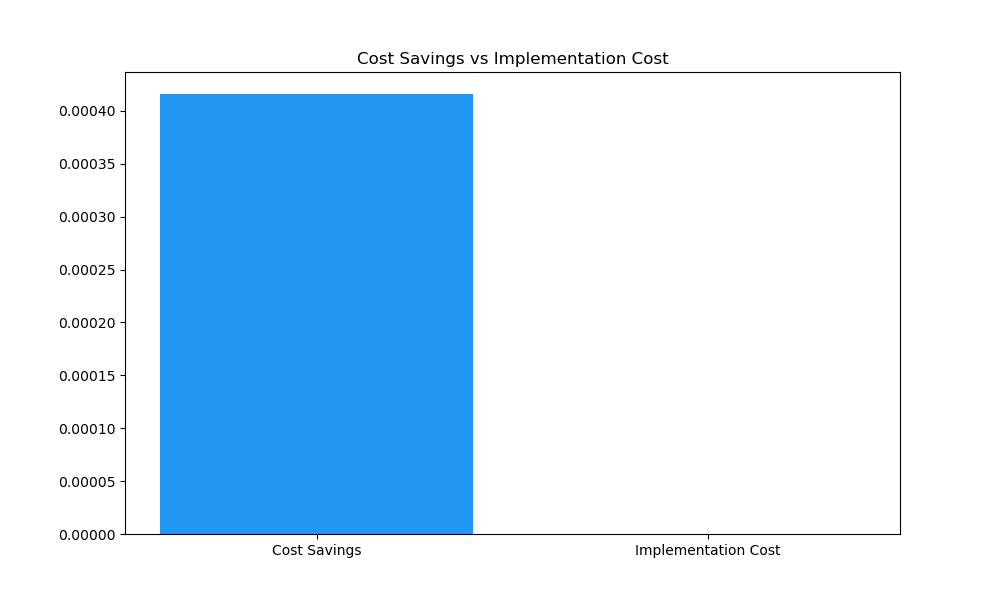
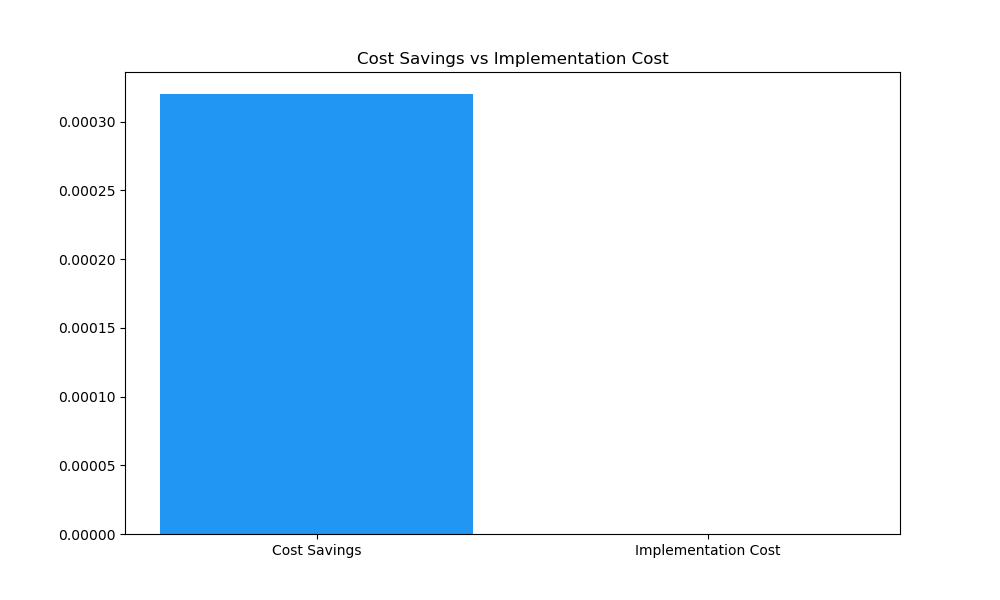
Commentaires

diff --git a/calculation.py b/calculation.py
@@ -12,14 +12,43 @@ from PyQt5 import QtSql
 
 
 def load_solutions(file_path='solutions.json'):
+    """
+
+
+    Parameters
+    ----------
+    file_path : str, optional
+        Chemin relatif du fichier contenant les solutions disponibles. The default is 'solutions.json'.
+
+    Returns
+    -------
+    solutions : list
+        Liste de dicos imbriqués (suivant la logique inscrite dans le fichier json) contenant les paramètres de chaque solutions.
+
+    """
     with open(file_path, 'r', encoding='utf-8') as file:
         solutions = json.load(file)
     return solutions
 
 
 def calculate_resources(input_data):
+    """
+    Calcule les ressources à disposition selon les données brutes fournies. Exple : on fourni le nombre de douches et on retourne la quantité dispo correspondante.
+
+    Parameters
+    ----------
+    input_data : dict
+        Données brutes d'entrée.
+
+    Returns
+    -------
+    dict
+        Données traitables. Exple : la quantité d'eau de douche dispo (plutôt que le nombre de douches qui ne sert 'à rien').
+
+    """
     roof_area, num_residents, daily_shower_usage, location, is_garden = input_data['roof_area'], input_data['num_residents'], input_data['daily_shower_usage'], input_data['location'], input_data['garden']
 
+    # Définition de la quantité de pluie en allant chercher dans la base de données
     query = QtSql.QSqlQuery()
     query.prepare("SELECT Precipitation_Moyenne FROM Prec_Anuelles WHERE Ville = :location")
     query.bindValue(":location", location)
@@ -30,39 +59,91 @@ def calculate_resources(input_data):
     else:
         print("Erreur lors de l'exécution de la requête.")
 
-    roof_water = roof_area * rainfall * 0.8 / 1000  # L'eau récupérée en litres
+    # Calcul des ressources en fonction des variables récupérées
+    # TODO mais plus tard c'est pas pressant : laisser la possibilité à l'utilisateur de modifier les constantes
+    roof_water = roof_area * rainfall * 0.8 / 1000  # L'eau de pluie récupérée en litres
     shower_water = num_residents * daily_shower_usage * 365  # L'eau de douche récupérée en litres
-    gray_water = shower_water > 0  # Hypothèse que les eaux grises sont disponibles si l'eau de douche est utilisée
+    gray_water_available = shower_water > 0
+
+    # ATTENTION : le nom des clés du dico doit être harmonisé avec le nom des conditions des solutions existantes (cf fonction de tri des solutions)
     return {
         "roof_water": roof_water,
         "rainfall": rainfall > 500,  # Simplification pour une zone avec suffisamment de pluie
         "shower_water": shower_water,
-        "gray_water": gray_water,
+        "gray_water": gray_water_available,
         "garden": is_garden
     }
 
 
 def calculate_needs(input_data):
+    """
+    Calcule les besoins en eau selon les données brutes fournies. Exple : on fourni la surface de jardin et on retourne la quantité dont on a besoin pour arroser correspondante.
+
+    Parameters
+    ----------
+    input_data : dict
+        Dico contenant les données brutes.
+
+    Returns
+    -------
+    dict
+        Données traitables. Exple : l'eau qu'il faut pour arroser le jardin (plutôt que sa surface qui ne sert 'à rien')..
+
+    """
     num_toilets, num_residents, daily_toilet_usage, garden, daily_garden_watering = input_data['num_toilets'], input_data['num_residents'], input_data['daily_toilet_usage'], input_data['garden'], input_data['daily_garden_watering']
 
+    # TODO mais plus tard il y a le tps : pouvoir modifier les constantes multipicatives
     toilet_water = num_toilets * num_residents * daily_toilet_usage * 365  # L'eau pour les toilettes en litres
     garden_water = daily_garden_watering * 365 if garden is True else 0  # L'eau pour le jardin en litres
+
+    # ATTENTION : le nom des clés du dico doit être harmonisé avec le nom des conditions des solutions existantes (cf fonction de tri des solutions)
     return {"toilet_water": toilet_water, "garden_water": garden_water}
 
 
 def suggest_solutions(total_water_resources, total_water_needed, resources, needs):
+    """
+    Tri des solutions existantes en fonction de si elles sont applicables au problème étudié.
+
+    Parameters
+    ----------
+    total_water_resources : int
+        Quantité d'eau totale à disposition.
+    total_water_needed : int
+        Quantité d'eau totale dont on a besoin.
+    resources : dict
+        Dico contenant les ressources (exploitables) à disposition.
+    needs : dict
+        Dico contenant les besoins en eau (exploitables).
+
+    Returns
+    -------
+    applicable_solutions : list
+        Liste des solutions (solutions au format dico : copie de certaines solutions existantes codées dans solutions.json).
+
+    """
     solutions = load_solutions()
     applicable_solutions = []
 
+    # Idée de la boucle de tri : on parcourt toutes les solutions, puis on regarde si on en a besoin et que c'est une solution qu'on peut mettre en place. Auquel cas on renseigne les parmètres de la solution (comme la taille d'une cuve par exemple : petit si pas beaucoup de pluie, grand sinon)
+    # Parcours des solutions
     for solution in solutions:
         conditions = solution["conditions"]
+        needs_covered = solution["covered_needs"]
         applicable = True
 
+        # Vérification que la solution est applicable
         for key, value in conditions.items():
-            if key not in resources or resources[key] != value:
+            if key not in resources or resources[key] <= value:
+                applicable = False
+                break
+        # Vérification qu'on ait besoin de la solution
+        for key, value in needs_covered.items():
+            if key not in needs:
                 applicable = False
                 break
 
+        # Mise à jour des paramètres de la solution, type taille de la cuve
+        # TODO : le faire sous forme de boucle pour éviter les tests if ça fait moche
         if applicable:
             if "roof_water" in solution["parameters"] and resources["roof_water"]:
                 solution["parameters"]["tank_capacity"] = resources["roof_water"]
@@ -77,9 +158,30 @@ def suggest_solutions(total_water_resources, total_water_needed, resources, need
 
 
 def calculate_savings(input_data, solutions, total_water_resources, total_water_needed, required_storage):
-    # Just an example of possible calculations
-    water_cost_per_liter = 0.002  # Example cost in currency per liter
-    total_cost_savings = total_water_resources * water_cost_per_liter
+    """
+    Calcule les économies réalisées
+
+    Parameters
+    ----------
+    input_data : dict
+        Données brutes d'entrée. (actuellement ça ne sert à rien mais ne pas supprimer car le main.py y est relié)
+    solutions : list
+        Liste des solutions envisagées (solutions au format dico comme d'hab).
+    total_water_resources : int
+        Eau à disposition.
+    total_water_needed : int
+        Eau dont on a besoin.
+    required_storage : int
+        Quantité d'eau qu'on a besoin de stocker. (assez naïf vu la définition donnée dans le main, mais c'est à titre d'exemple, il faudra juste modifier. Ne pas enlever donc)
+
+    Returns
+    -------
+    dict
+        Coûts économisés et coûts d'implémentation.
+
+    """
+    water_cost_per_liter = 0.002  # Valeur d'exemple, à modifier. TODO mais plus tard : permettre la redéfinition de cette constante
+    total_cost_savings = total_water_resources * water_cost_per_liter  # Calcul simple et naïf qu'il faudra améliorer
     implementation_cost = sum(solution.get('implementation_cost', 0) for solution in solutions)
 
     return {
